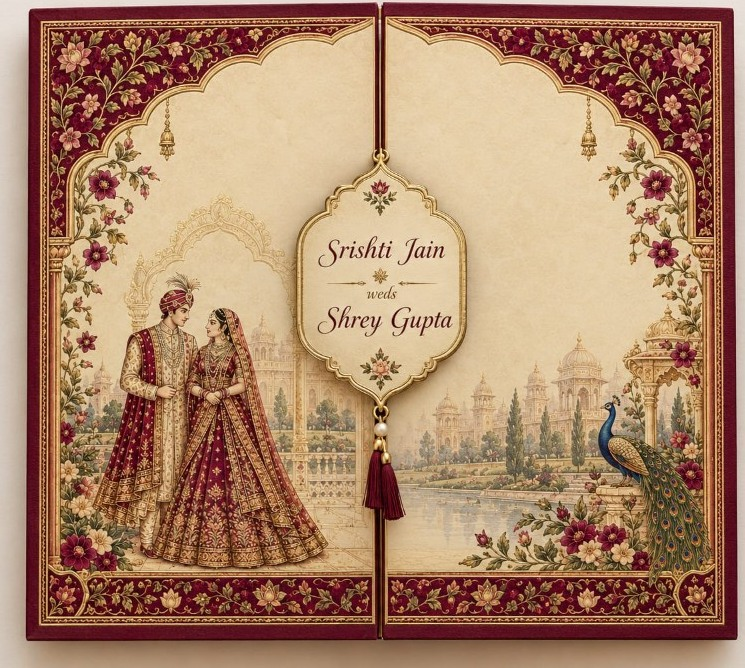
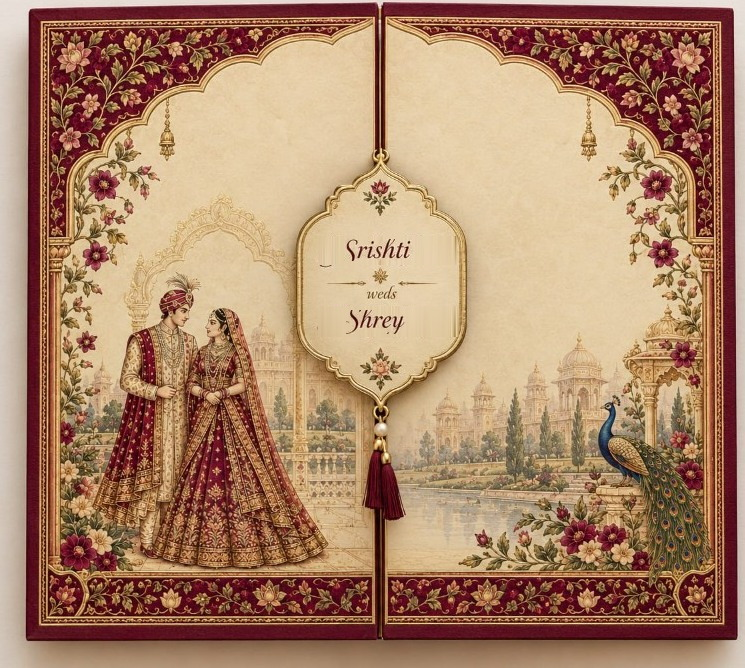
Update the envelope names and the wedding venue.
The envelope shows first names only, and the wedding card is at Luxera in Delhi.

Changed region(s): [[0.4322, 0.4491, 0.6174, 0.509], [0.4322, 0.3593, 0.6174, 0.3892]]

diff --git a/nikki-wedding-cloudflare/lib/invitation.ts b/nikki-wedding-cloudflare/lib/invitation.ts
@@ -3,6 +3,6 @@ export type Config={couple:string;envelope:string;draft:boolean;events:EventInfo
 export const defaults:Config={couple:'Srishti Jain weds Shrey Gupta',envelope:'/art/envelope.jpg',draft:false,events:[
 {id:'sangeet',name:'Sangeet',date:'2026-12-07',time:'17:30',end:'20:00',venue:'Hotel Radisson',city:'Bhopal',map:'',image:'/art/sangeet.jpg',note:'5:30 PM ring ceremony · 6:00–8:00 PM Sangeet, followed by dinner and photos on stage'},
 {id:'haldi',name:'Haldi',date:'2026-12-10',time:'11:00',end:'14:00',venue:'Luxera',city:'Delhi',map:'',image:'/art/haldi.jpg',note:'Showering the couple with love, laughter and turmeric!'},
-{id:'wedding',name:'Wedding',date:'2026-12-12',time:'18:00',end:'23:00',venue:'Hotel Radisson',city:'Bhopal',map:'',image:'/art/wedding.jpg',note:'With the blessings of our families, we begin a new chapter together.'}]};
+{id:'wedding',name:'Wedding',date:'2026-12-12',time:'18:00',end:'23:00',venue:'Luxera',city:'Delhi',map:'',image:'/art/wedding.jpg',note:'With the blessings of our families, we begin a new chapter together.'}]};
 export function dateLabel(e:EventInfo){return new Date(e.date+'T12:00:00').toLocaleDateString('en-IN',{weekday:'long',day:'numeric',month:'long',year:'numeric'});}
 export function timeLabel(e:EventInfo){return new Date(e.date+'T'+e.time).toLocaleTimeString('en-IN',{hour:'numeric',minute:'2-digit'});}
